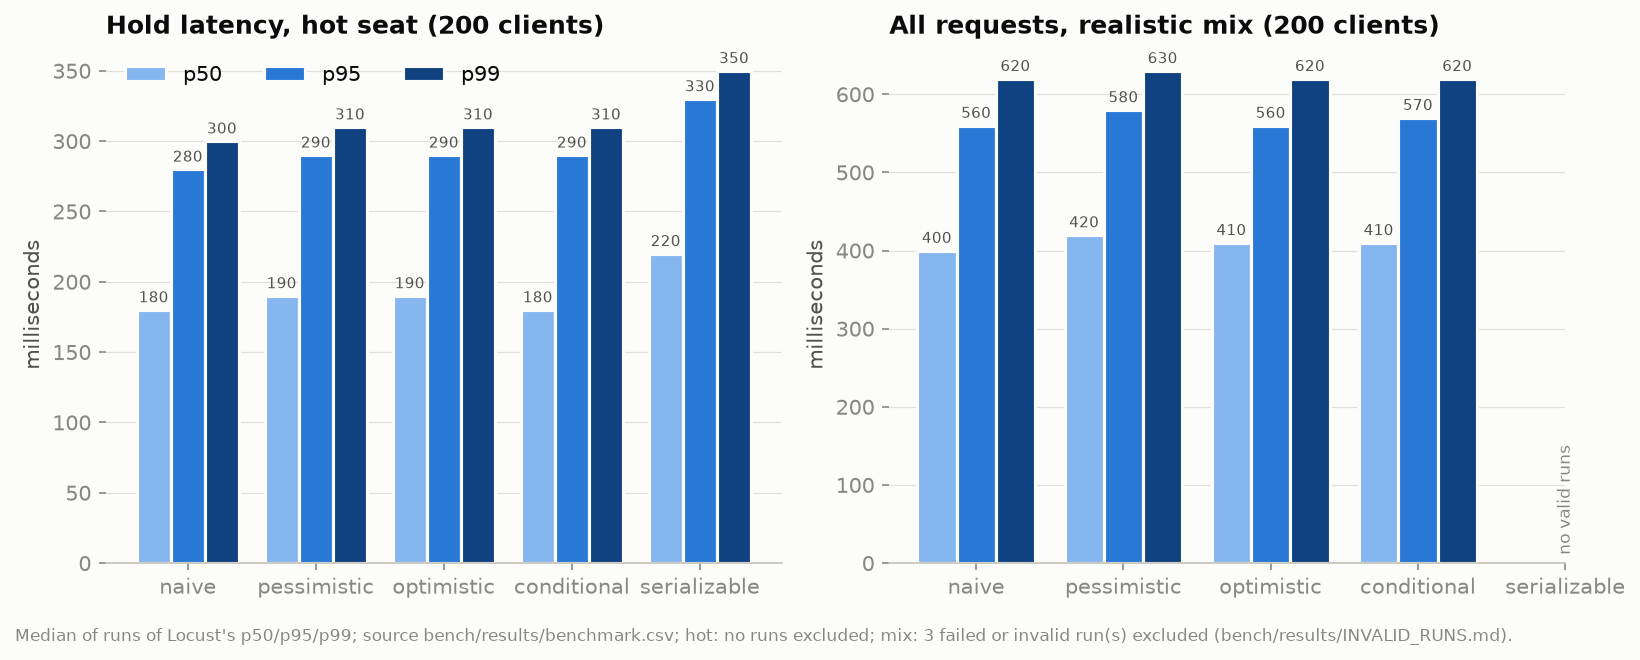
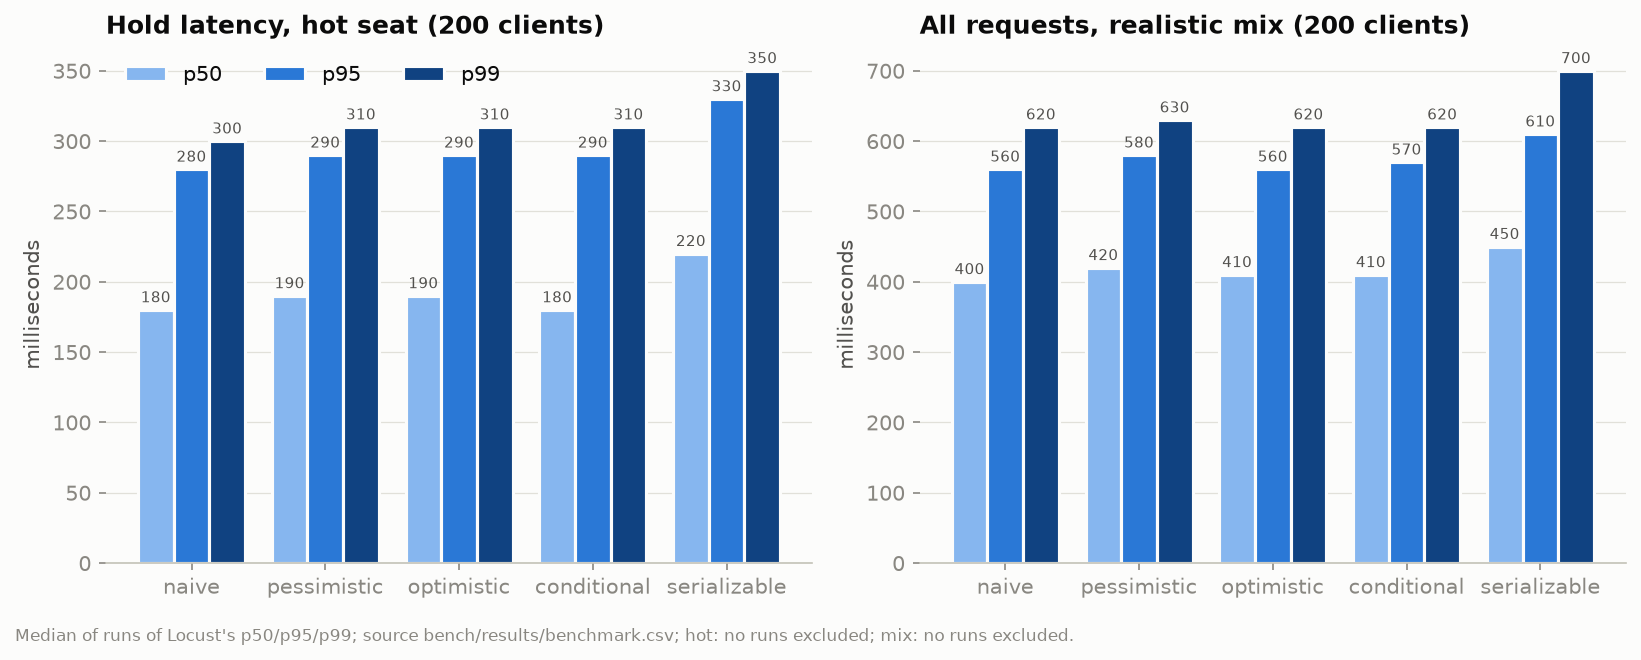
bench: re-run the battery-affected runs on AC power, and add the pool study
The 8 serializable realistic-mix runs and the 12 pool-study runs measured on
battery on 2026-10-09 were repeated on 2026-10-15 with unchanged code, after a
calibration run matched the original numbers (474.18 req/s against 469-482).
No invalid rows remain. Serializable on the realistic mix: 430 req/s at 200
clients against 475-498 for the other strategies. Pool study: 381 req/s with 5
connections, 513-520 req/s from 20 to 100.

diff --git a/bench/plot.py b/bench/plot.py
@@ -218,8 +218,8 @@ def pool_size(rows):
         ax.set_xticks(sizes)
         ax.set_xlabel("connection pool size")
         ax.set_ylabel(label)
-        ax.set_ylim(bottom=0)
-        ax.set_title(f"{title} vs pool size")
+        ax.set_ylim(0, max(y for y in ys if y is not None) * 1.15)  # room for the value labels
+        ax.set_title(f"{title} vs pool size", pad=10)
     fig.tight_layout()
     finish(fig, "pool_size.png", f"Pessimistic strategy, realistic mix, {rows[0]['clients']} clients. "
            f"Median of runs; source bench/results/pool_study.csv; {failed_note(failed)}.")

diff --git a/README.md b/README.md
@@ -66,10 +66,10 @@ Hot-seat workload at 200 clients, median of 3 runs, from
 | pessimistic | `SELECT ... ORDER BY seat_id FOR UPDATE` locks the rows first; a second holder waits, then sees `HELD`. | 0 | 1,013 | 310 | 0.00 | 475 |
 | optimistic | Reads `version` without locking, then `UPDATE ... WHERE version = <read>`; 0 rows updated means the race was lost. | 0 | 1,002 | 310 | 0.00 | 487 |
 | conditional | One `UPDATE ... WHERE <seat is free> RETURNING`; the check runs under the row lock. Rows are locked in a CTE `ORDER BY seat_id`. | 0 | 1,023 | 310 | 0.00 | 482 |
-| serializable | The naive code at `SERIALIZABLE`: Postgres aborts one of two conflicting transactions (40001) and the service retries. | 0 | 867 | 350 | 0.46 | TODO |
+| serializable | The naive code at `SERIALIZABLE`: Postgres aborts one of two conflicting transactions (40001) and the service retries. | 0 | 867 | 350 | 0.46 | 430 |
 
-The serializable realistic-mix runs at 100 and 200 clients were measured after the laptop
-lost AC power and are excluded; see [bench/results/INVALID_RUNS.md](bench/results/INVALID_RUNS.md).
+The serializable realistic-mix runs at 50, 100 and 200 clients are from a re-run on AC power on
+2026-10-15, after the first attempt ran on battery; see [bench/results/INVALID_RUNS.md](bench/results/INVALID_RUNS.md).
 Over every hot-seat run:
 
 | Strategy | Runs | Runs with a double booking | Double-booked holds, total | Seat holds (api count), total | DB `version` sum equals api count |
@@ -92,7 +92,7 @@ Hot seat:
 | conditional | 1,006 | 1,002 | 1,043 | 1,023 |
 | serializable | 893 | 905 | 876 | 867 |
 
-Realistic mix (serializable at 50 clients is one valid run; 100 and 200 are invalid):
+Realistic mix (serializable at 50 to 200 clients from the 2026-10-15 re-run):
 
 | Strategy | 10 clients | 50 clients | 100 clients | 200 clients |
 | --- | ---: | ---: | ---: | ---: |
@@ -100,7 +100,7 @@ Realistic mix (serializable at 50 clients is one valid run; 100 and 200 are inva
 | pessimistic | 557 | 540 | 490 | 475 |
 | optimistic | 564 | 505 | 477 | 487 |
 | conditional | 567 | 532 | 494 | 482 |
-| serializable | 536 | 504 | TODO | TODO |
+| serializable | 536 | 477 | 476 | 430 |
 
 </details>
 
@@ -114,8 +114,9 @@ What the numbers say:
 - **Serializable is the one strategy with a visible cost:** 867 hold requests/s and a p99 of
   350 ms at 200 clients, against 1,002 to 1,041 and 300 to 310 ms for the others. It retried
   0.46 times per 100 holds on 40001, and a median of 1 request per run still failed after 3
-  retries and got a 409. These numbers do not show which part of the cost comes from retries
-  and which from the extra serializable bookkeeping.
+  retries and got a 409. On the realistic mix it reached 430 requests/s and a p99 of 700 ms
+  at 200 clients, against 475 to 498 and 620 to 630 ms. These numbers do not show which part
+  of the cost comes from retries and which from the extra serializable bookkeeping.
 - **A lost race is a 409, not a retry.** Optimistic shows 0 retries: a changed `version`
   means the seat is taken, so retrying could not succeed.
 
@@ -215,14 +216,30 @@ Tests for each: [`tests/test_failures.py`](tests/test_failures.py), [`tests/test
 - **Setup:** one uvicorn process, a pool of 10 connections, PostgreSQL 18.6 with default
   settings except `max_connections = 200`, all on one laptop (13th Gen Intel Core i7-13620H,
   16 logical CPUs, 15 GiB RAM). Full list: [bench/results/ENVIRONMENT.md](bench/results/ENVIRONMENT.md).
-- **Power:** the laptop was unplugged near the end of the run. The 20 runs measured on
-  battery are kept as evidence but excluded; [bench/results/INVALID_RUNS.md](bench/results/INVALID_RUNS.md)
-  has the battery log and the throughput step that show it. The scripts now refuse to run on battery.
+- **Power:** the laptop was unplugged near the end of the first run, which halved throughput.
+  The 20 runs measured on battery were repeated on AC power on 2026-10-15, with the same code,
+  after a calibration run matched the original numbers (474.18 requests/s against 469 to 482
+  for the same configuration). [bench/results/INVALID_RUNS.md](bench/results/INVALID_RUNS.md)
+  has the evidence. The scripts now refuse to run on battery.
 
-**Pool study** ([`bench/pool_study.sh`](bench/pool_study.sh): pessimistic, realistic mix,
-200 clients, pool sizes 5, 20, 50 and 100): TODO. All 12 runs were measured on battery and are
-invalid; they need to be re-run on AC power (commands in
-[bench/results/INVALID_RUNS.md](bench/results/INVALID_RUNS.md)).
+**Pool study** ([`bench/pool_study.sh`](bench/pool_study.sh)): the pessimistic strategy on the
+realistic mix at 200 clients, with different connection pool sizes, median of 3 runs each
+([`bench/results/pool_study.csv`](bench/results/pool_study.csv)).
+
+| Pool size | Req/s | p50 ms | p99 ms |
+| ---: | ---: | ---: | ---: |
+| 5 | 381 | 510 | 780 |
+| 20 | 513 | 390 | 540 |
+| 50 | 520 | 380 | 560 |
+| 100 | 515 | 380 | 540 |
+
+![Pool size](docs/img/pool_size.png)
+
+Five connections are too few: requests queue for a free connection, throughput drops to 381
+requests/s and p99 rises to 780 ms. From 20 connections on, more connections change nothing (513 to 520 requests/s):
+the single api process is already the limit, at a median of 124.68% CPU against 36.87% for
+PostgreSQL in those 9 runs (`*_cpu_pct` columns of `pool_study.csv`). The strategy benchmark used 10
+connections and measured 475 requests/s for the same configuration on 2026-10-09.
 
 Machine, Docker limits, PostgreSQL settings and package versions, collected by a script:
 [bench/results/ENVIRONMENT.md](bench/results/ENVIRONMENT.md).

diff --git a/bench/results/INVALID_RUNS.md b/bench/results/INVALID_RUNS.md
@@ -1,11 +1,11 @@
-# Runs marked invalid
+# Runs marked invalid, and their re-run
 
 On 2026-10-09 the laptop running the benchmark was unplugged at about 11:58:58 local time
 (UTC+05:30) and finished the run on battery. On battery the CPU is throttled, so every
-run measured after that moment is not comparable with the runs before it. Those runs are
-kept, with their numbers, as `status = invalid` in the CSVs, and their raw output was moved
-to `bench/results/raw_invalid/` (local working files, not committed). `bench/summary.py`
-and `bench/plot.py` leave them out.
+run measured after that moment is not comparable with the runs before it. Those runs were
+marked `status = invalid` (summaries and charts skip that status) and their raw output was
+moved to `bench/results/raw_invalid/` (local working files, not committed). On 2026-10-15 they
+were re-run on AC power; the CSVs now hold the re-run results (last section).
 
 ## Evidence
 
@@ -37,14 +37,21 @@ and `bench/plot.py` leave them out.
 
 All 60 hot-seat runs and the other 52 realistic-mix runs finished before 11:58:58.
 
-## Re-running them (on AC power)
+## Re-run on 2026-10-15 (on AC power)
+
+Before re-running, one calibration run repeated a configuration measured on 2026-10-09:
+pessimistic, realistic mix, 200 clients, pool 10. It gave 474.18 requests/s; the three
+original runs gave 475.02, 482.37 and 468.62 (`benchmark.csv`). The machine performed the same.
+The application and benchmark code were unchanged since the benchmarked commit (no diff in
+`app/`, `db/`, `bench/locustfile.py`, the Dockerfile, docker-compose.yml or requirements.txt).
+
+Then these were run again, and every run recorded AC power at its 40-second sample and at its end:
 
 ```bash
-STRATEGIES=serializable WORKLOADS=mix CLIENTS="50 100 200" bench/run_all.sh   # about 12 min
-bench/pool_study.sh                                                         # about 16 min
-make plot && make summary
+STRATEGIES=serializable WORKLOADS=mix CLIENTS="50 100 200" bench/run_all.sh
+bench/pool_study.sh
 ```
 
-A re-run replaces the rows with the same labels. Since this incident the scripts refuse to
-start on battery and record a run as invalid if AC power is missing at its 40-second
-sample or at its end (`bench/lib.sh`).
+The re-runs replaced the invalid rows; `benchmark.csv` and `pool_study.csv` now contain no
+`invalid` rows. Serializable at 50 clients was re-run as a full set of 3, including the
+repeat that had been valid, so all three come from the same session.
